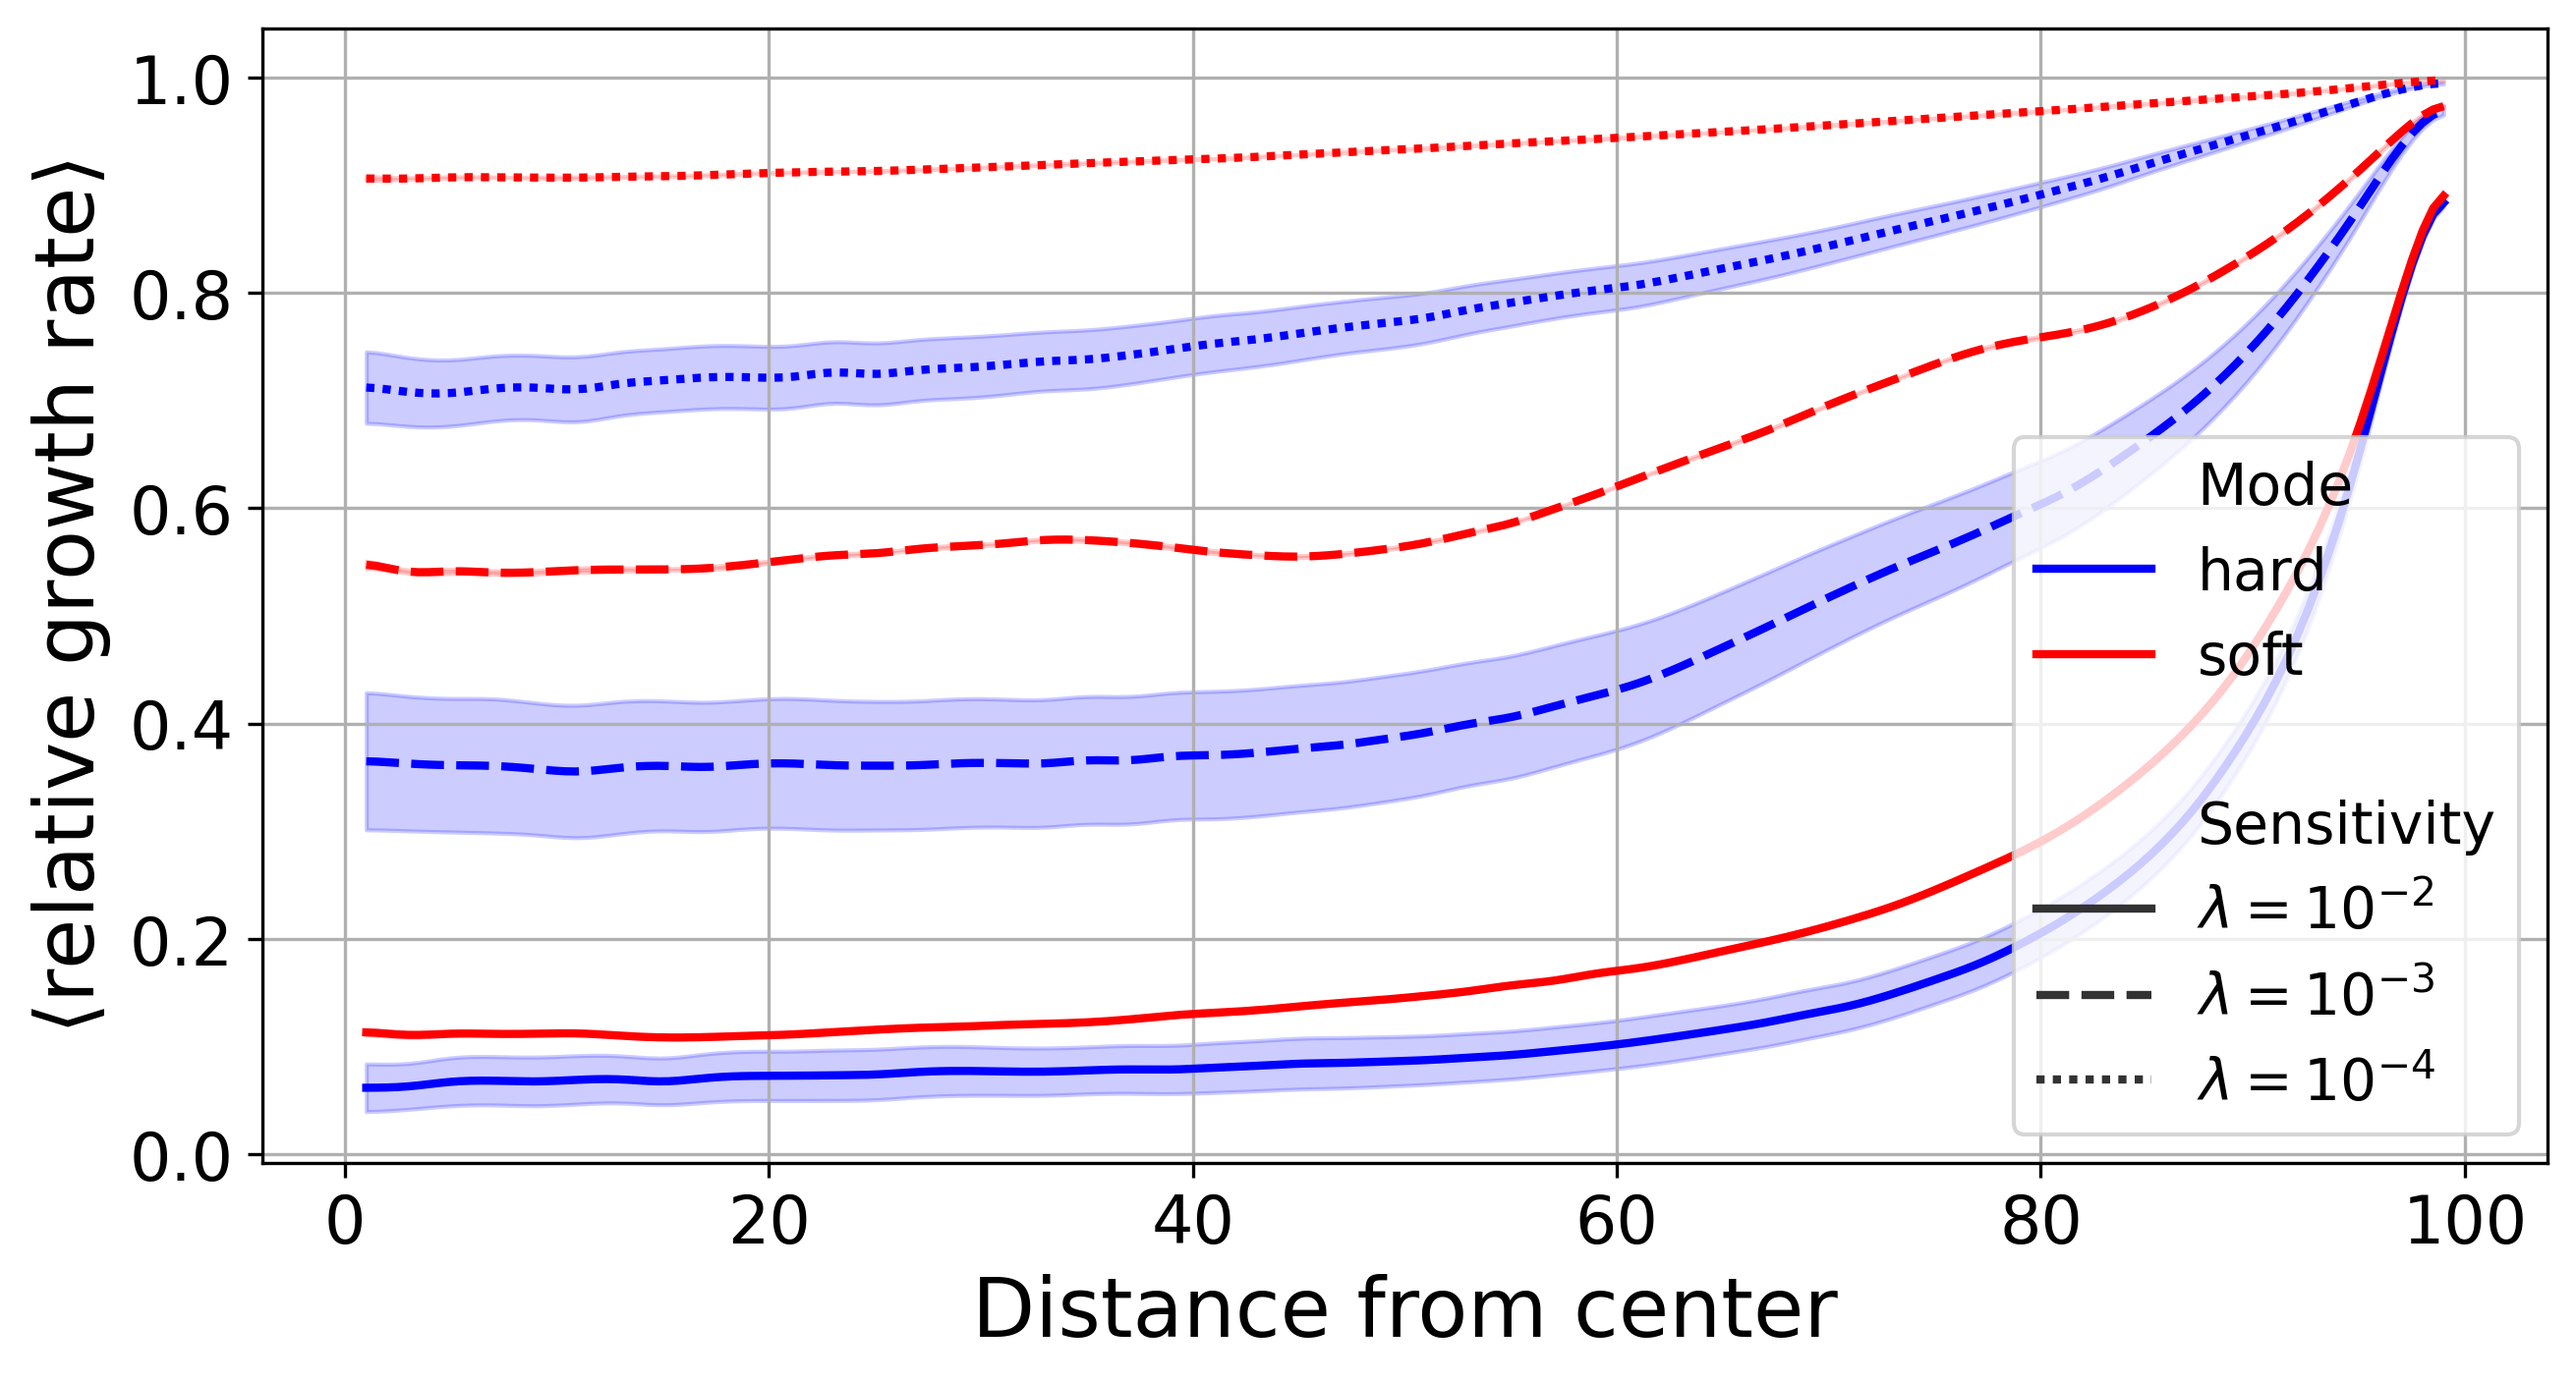
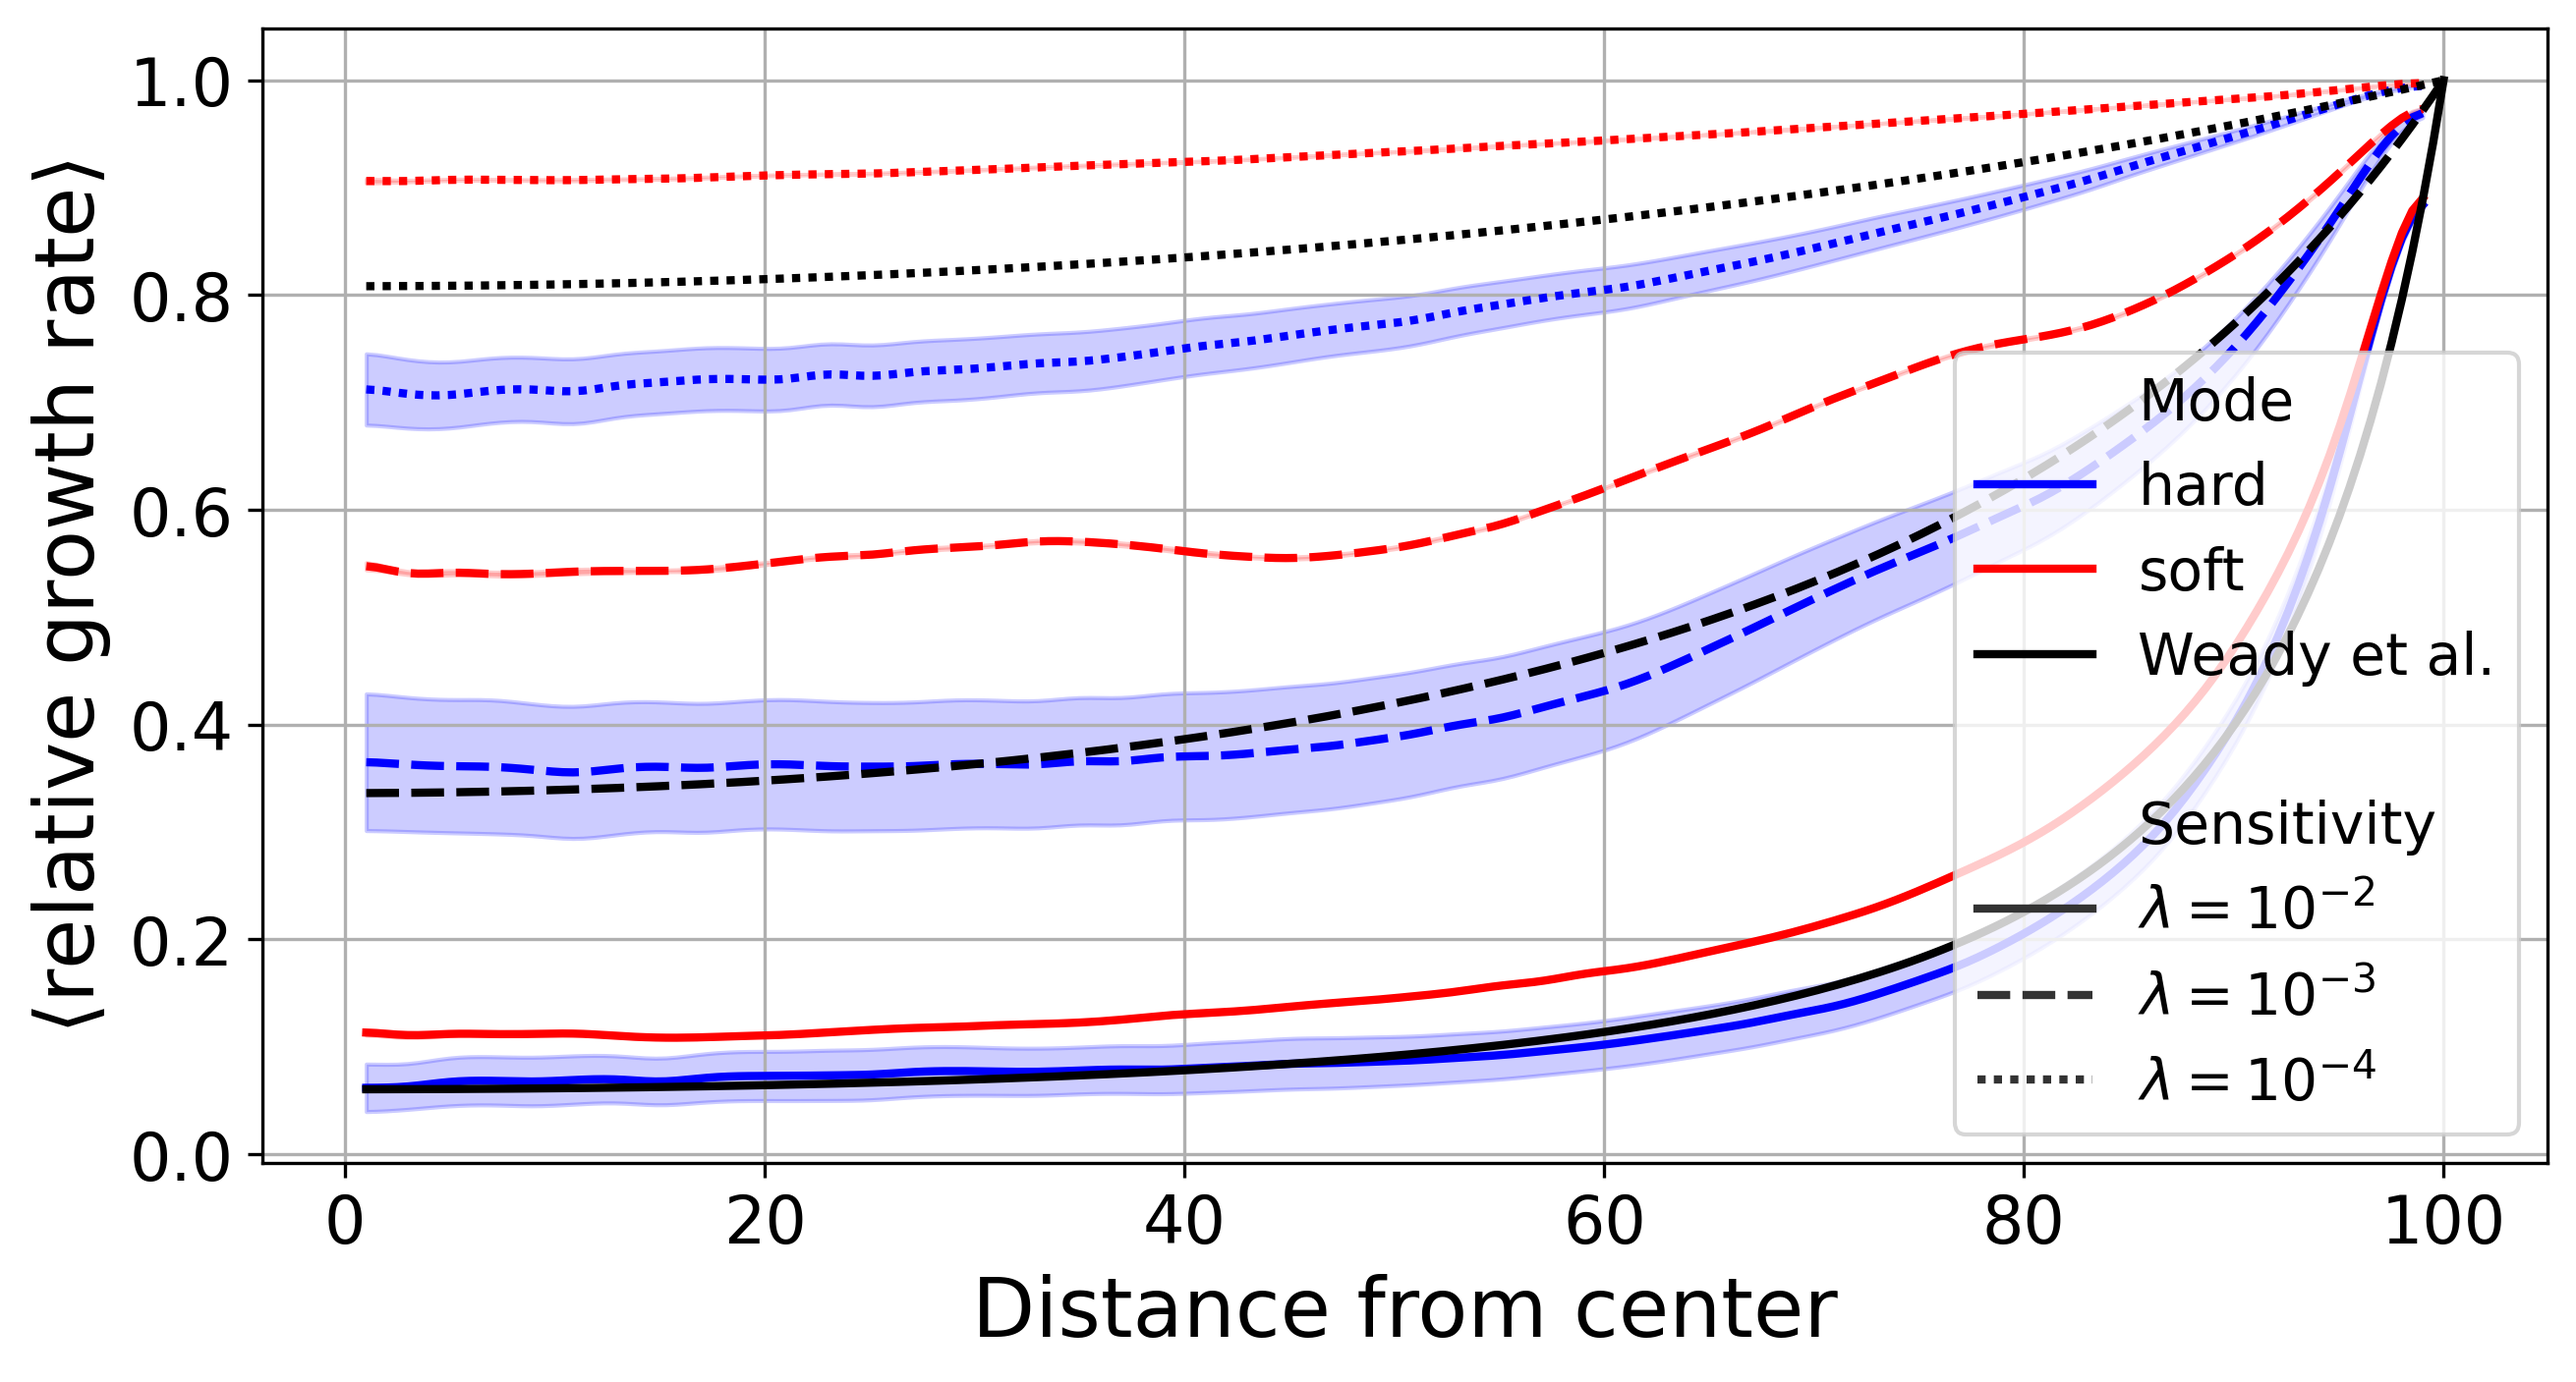
theoretical lines in impedance plot

diff --git a/latex/cell-collectives.tex b/latex/cell-collectives.tex
@@ -748,7 +748,7 @@ As shown in \autoref{fig:radial_distribution_growth_rate}, the differences in st
 \begin{figure}[H]
     \centering
     \includegraphics[width=\linewidth]{figures/comparison_plots/combined_radial_impedance.png}
-    \caption{Radial relative growth rate profiles ($e^{-\lambda \sigma}$) for both models. Cells in the soft model grow significantly faster than those in the hard model across most of the colony, particularly at low stress-sensitivity values. At high stress-sensitivity ($\lambda = 10^{-2}$), growth is strongly suppressed in the interior of both models, with only cells at the colony edge actively dividing.}
+    \caption{Radial relative growth rate profiles ($e^{-\lambda \sigma}$) for both models. Cells in the soft model grow significantly faster than those in the hard model across most of the colony, particularly at low stress-sensitivity values. At high stress-sensitivity ($\lambda = 10^{-2}$), growth is strongly suppressed in the interior of both models, with only cells at the colony edge actively dividing. The black lines indicate the theoretical growth rates derived from the continuum model in~\cite{Weady2024}.}
     \label{fig:radial_distribution_growth_rate}
 \end{figure}
 
@@ -778,7 +778,7 @@ As shown in \autoref{fig:orientation_comparison_small}, both hard and soft colli
 
 Although the hard and soft collision models presented here are not directly comparable to You et al.~\cite{You2018}, because their study assumes constant growth rates while our models use stress-dependent growth, their findings still provide useful context. You et al. show that reduced growth rates lead to larger microdomains. In our models, stress sensitivity $\lambda$ produces a similar effect by inhibiting growth in the densely packed colony center, resulting in larger microdomains. This trend is evident in simulations of the soft model (see \autoref{fig:orientation_comparison}), where higher $\lambda$ values correspond to slower growth and larger microdomains, consistent with You et al.'s observations. The hard model, in contrast, shows no such trend. The consistent microdomain size across $\lambda$ values in the hard model may be related to the global constraint resolution mechanism, but a detailed investigation of the underlying mechanisms is beyond the scope of this comparison.
 
-We saw that both models produce similar orientation patterns in small colonies at a colony radius around $R \approx 50$ (see \autoref{fig:orientation_comparison_small}). However, pronounced differences emerge as colonies grow larger or $\lambda$ decreases. As shown in \autoref{fig:orientation_comparison}, the hard model maintains distinct patches of similarly-sized aligned cells across all $\lambda$ values. In contrast, the soft model produces elongated, unrealistic bundles of densely packed aligned cells that do not resemble experimentally observed microdomains~\cite{You2018}.
+Both models produce similar orientation patterns in small colonies at a colony radius around $R \approx 50$ (see \autoref{fig:orientation_comparison_small}). However, pronounced differences emerge as colonies grow larger or $\lambda$ decreases. As shown in \autoref{fig:orientation_comparison}, the hard model maintains distinct patches of similarly-sized aligned cells across all $\lambda$ values. In contrast, the soft model produces elongated, unrealistic bundles of densely packed aligned cells that do not resemble experimentally observed microdomains~\cite{You2018}.
 
 This artifact stems directly from the soft model's higher interior growth rates, discussed in the previous section. Without sufficient outward stress propagation, the interior becomes unphysically dense, forcing cells into long, aligned bundles.
 
@@ -787,7 +787,7 @@ The effect of $\lambda$ on microdomain structure is particularly apparent in lar
 \begin{figure}[h]
     \centering
     \includegraphics[width=\linewidth]{figures/comparison_plots/cluster_area_boxplot.png}
-    \caption{Microdomain area distributions for large colonies ($R \approx 100$) across $\lambda$ values. The hard model produces consistent domain sizes, while the soft model shows high variability with many large clusters, especially at $\lambda = 10^{-4}$. Clusters are identified using a graph-based connected-component algorithm~\cite{You2018}, grouping neighboring cells with similar orientations (within 3\% of each other).}
+    \caption{Microdomain area distributions for large colonies ($R \approx 100$) across $\lambda$. The hard model yields consistent domain sizes, while the soft model exhibits greater variability with larger clusters, particularly at $\lambda = 10^{-4}$. Clusters are identified via a graph-based connected-component method~\cite{You2018}, grouping neighboring cells with similar orientations.}
     \label{fig:cluster_area_boxplot}
 \end{figure}
 
